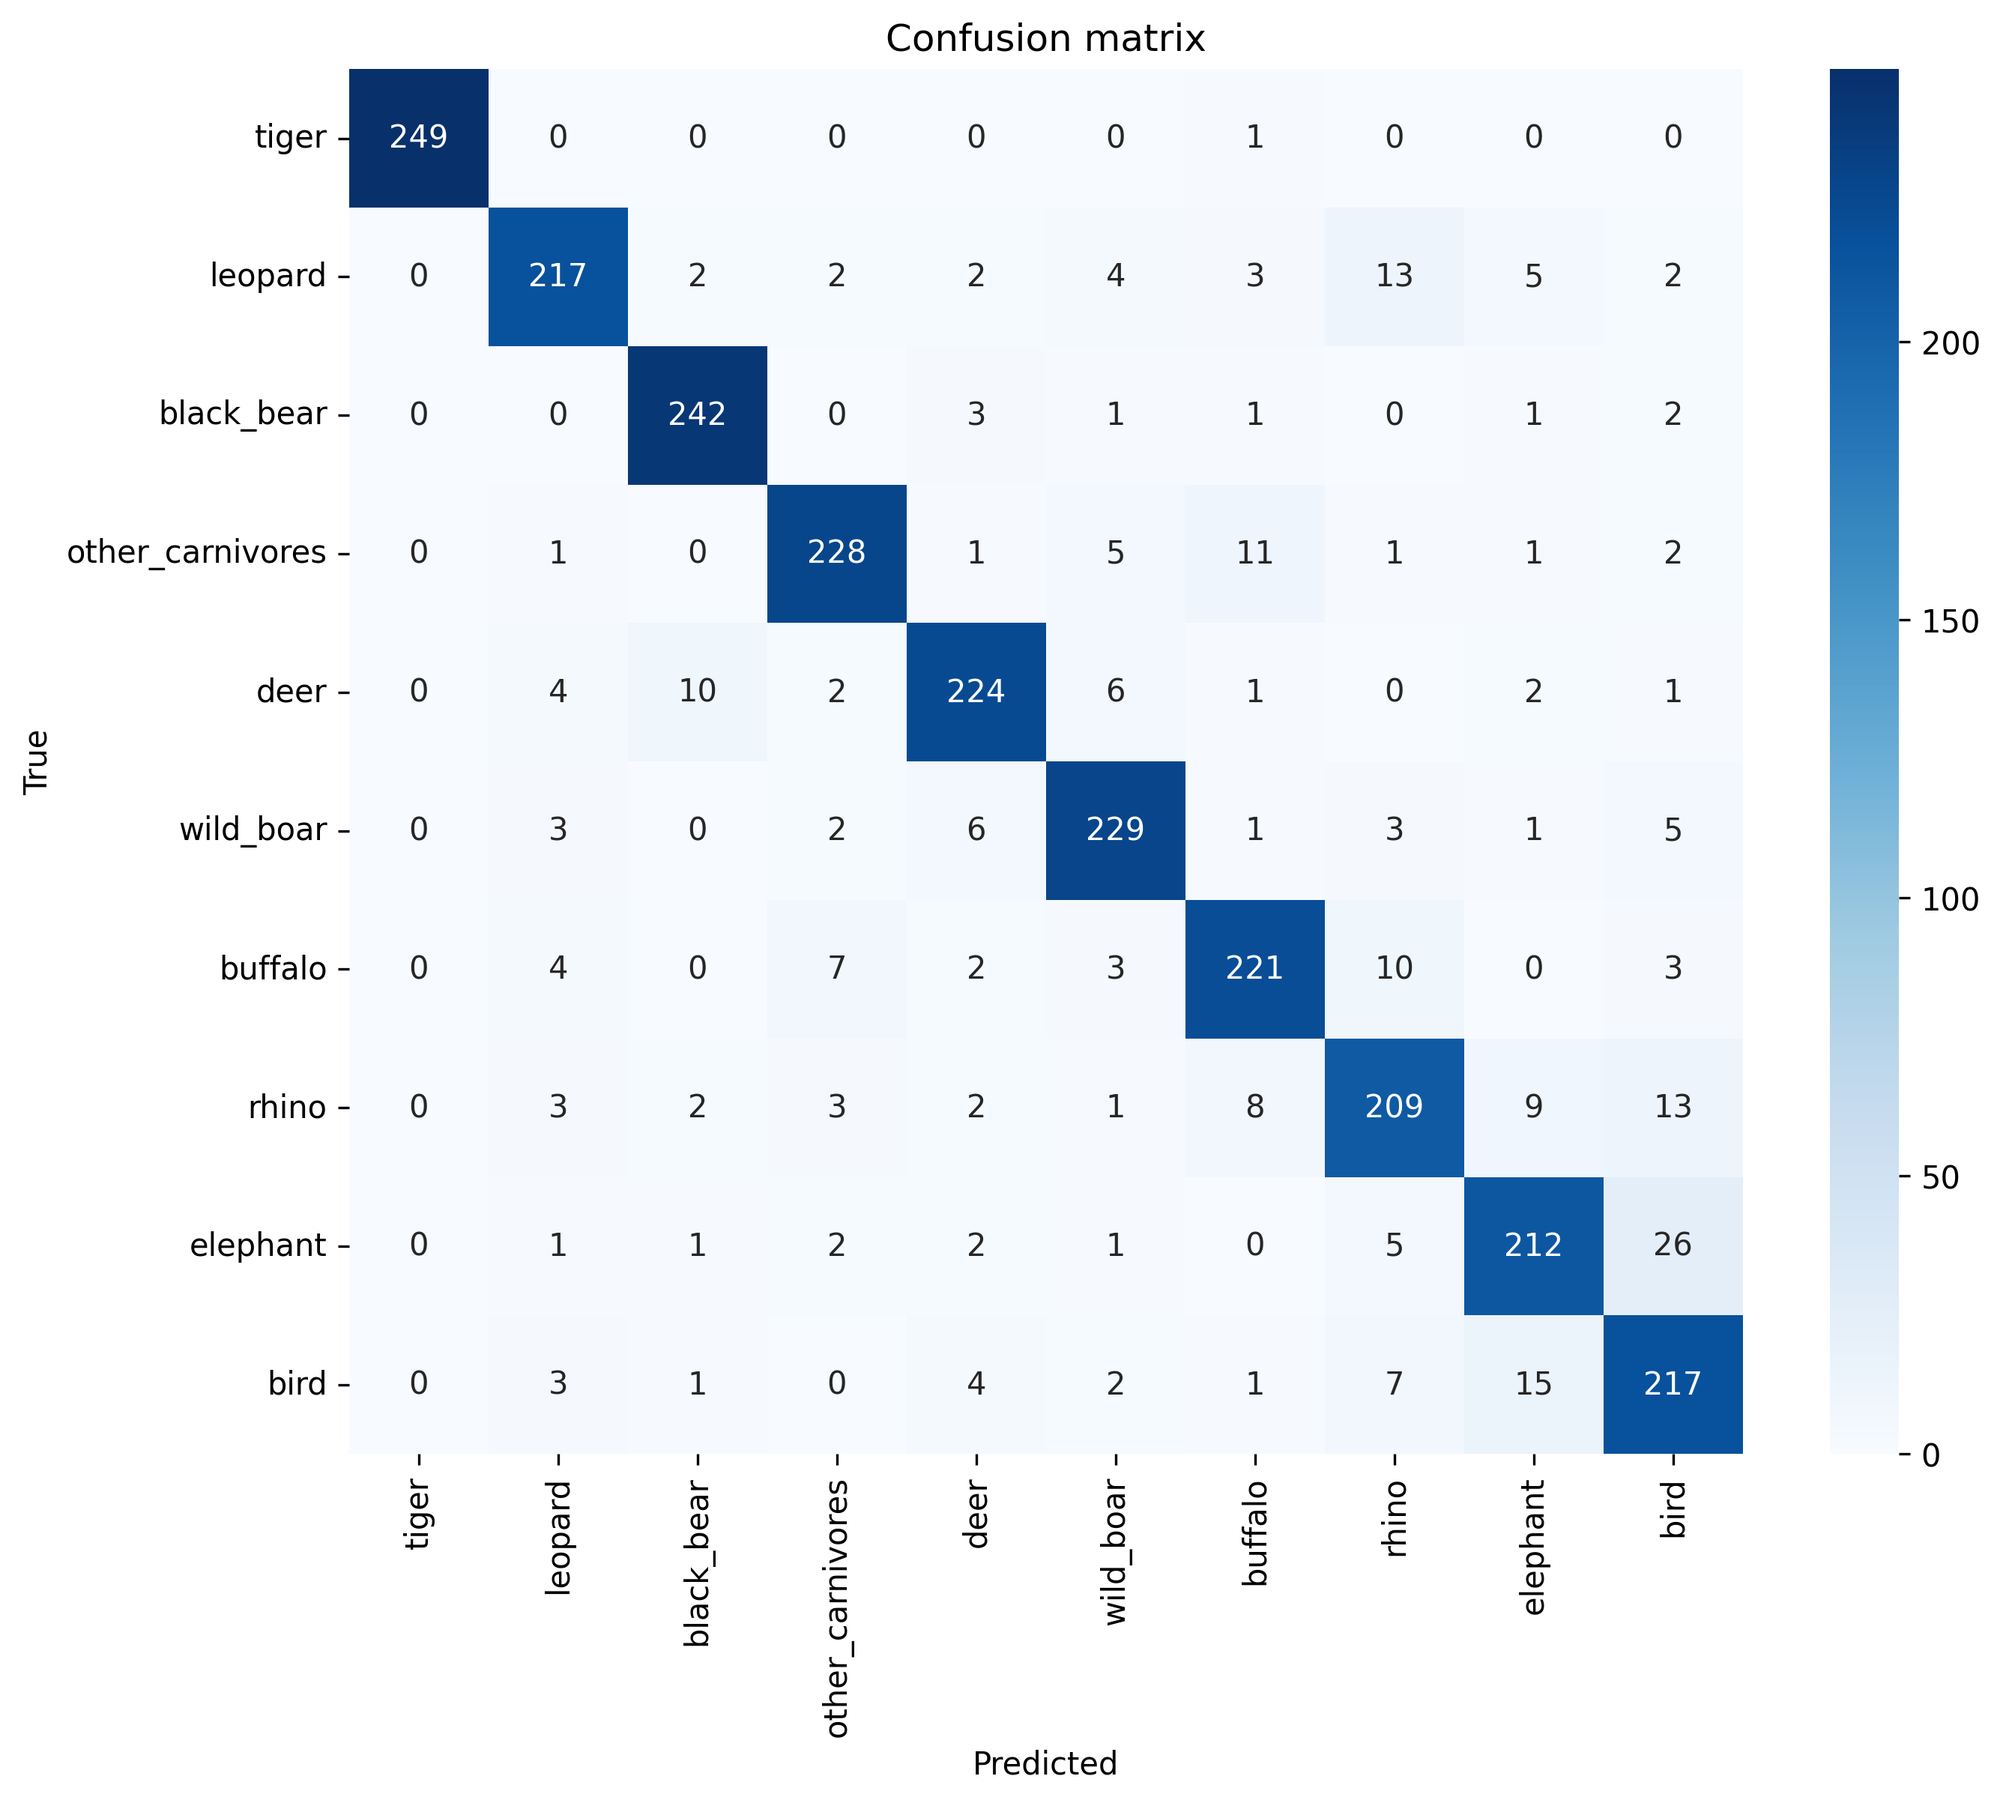
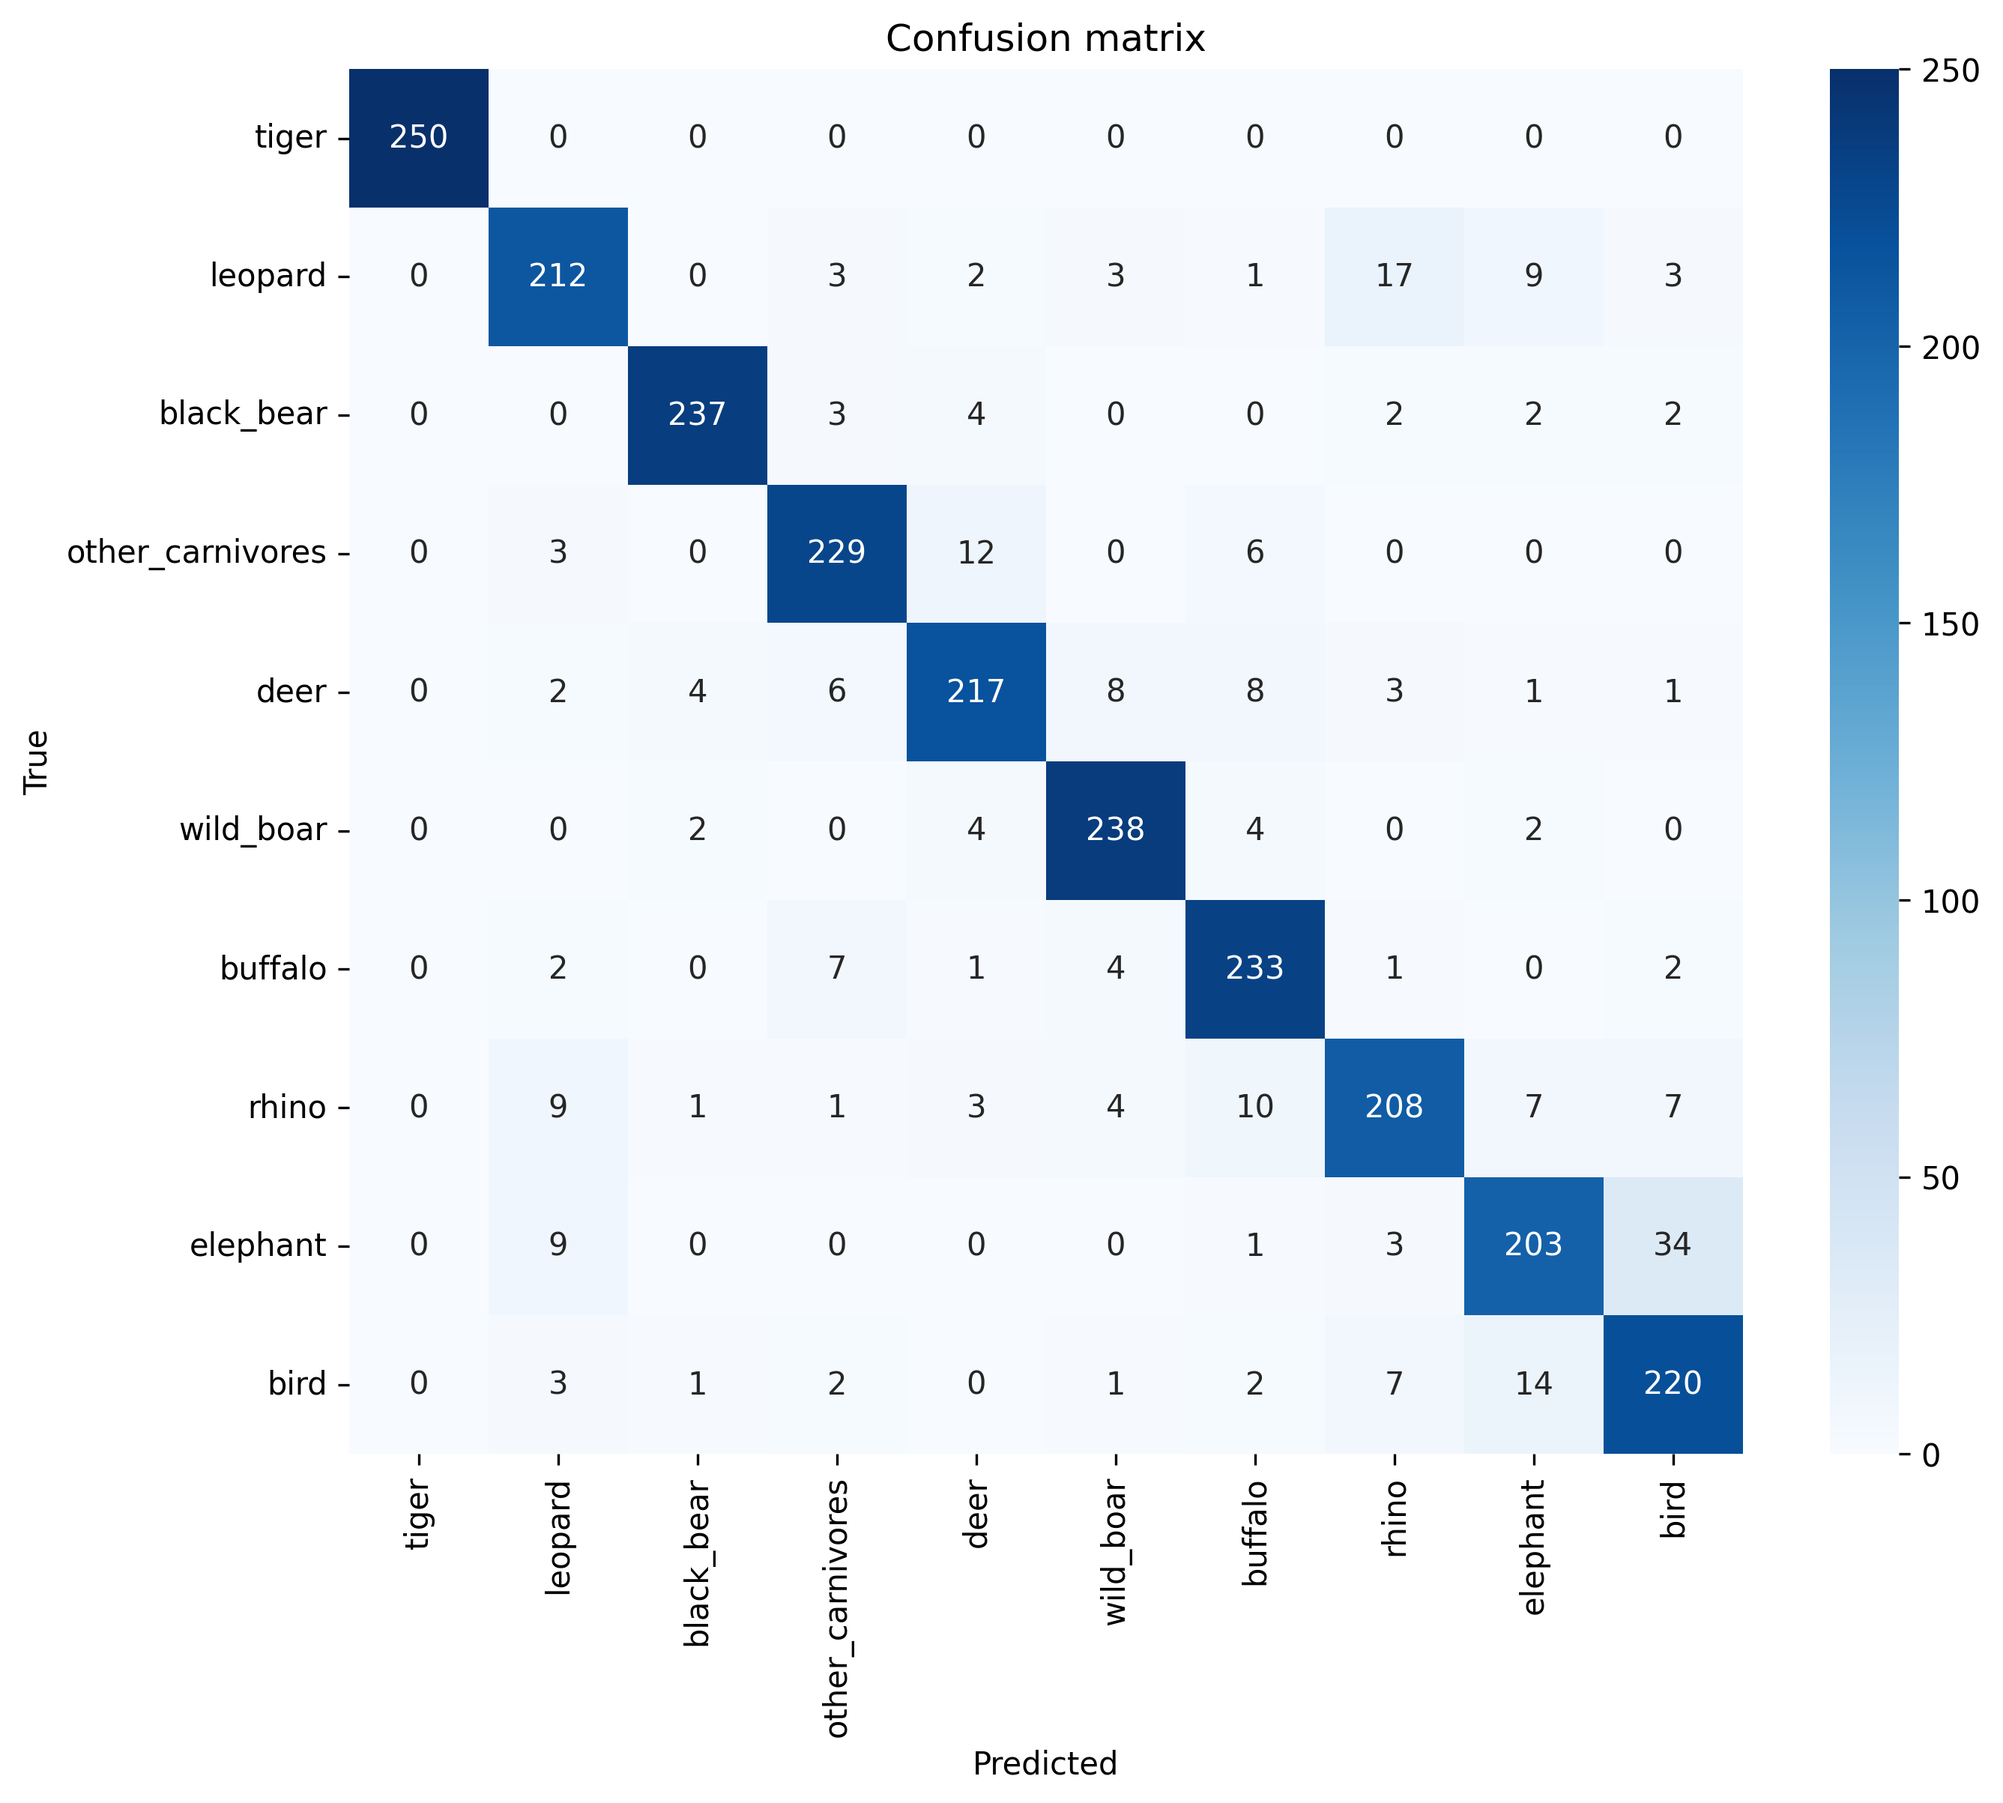
Update readme and add backlog

diff --git a/README.md b/README.md
@@ -4,6 +4,10 @@ This repository contains scripts and notebooks to build a species classification
 It can classify 10 different classes (including tigers) in camera trap images, using ML ([MegaDetector](https://github.com/agentmorris/MegaDetector) and EfficientNetV2M),
 open data ([LILA BC](https://lila.science/)), open source tools ([MEWC](https://github.com/zaandahl/mewc)) and free compute resources (Google Colab and Kaggle).
 
+TeraiNet is supposed to be an open source blueprint to enable others to easily and flexibly build their own species classifiers for their own specific use cases.
+All you need is basically a Google and a Kaggle account, and an Internet connection.
+In a nutshell, you select the species you're interested in and run the rest of the pipeline with some (hopefully) minor tweaks here and there.
+
 ![tiger](media/anno_1440.jpg 'tiger')
 
 *Credentials: LILA BC, MegaDetector, own illustration.*
@@ -11,8 +15,8 @@ open data ([LILA BC](https://lila.science/)), open source tools ([MEWC](https://
 
 ## Motivation and relevance
 
-- tigers are an endangered species, NGOs like the [Nepal Tiger Trust](https://www.nepaltigertrust.org/) protect them
-- there is no open and easy way for ecologists/researchers/NGOs to classify their camera trap images with regard to tigers
+- tigers are an endangered species, NGOs like the [Nepal Tiger Trust](https://www.nepaltigertrust.org/) and [WWF Nepal](https://www.wwfnepal.org) protect them
+- there is no open and easy way for ecologists/NGOs to classify their camera trap images with regard to tigers
 - ML and open data/tools can help reduce the amount of manual labor when sifting through large amounts of camera trap images, looking for the needle in the haystack
 - there appears to be no such species classification model focussed on the Terai region in Nepal yet
 - **goal**: train a species classifier focussing on the most relevant species in the Bengal tiger's ecosystem in Nepal, namely the Terai region,
@@ -78,37 +82,37 @@ and make it openly available through [AddaxAI](https://addaxdatascience.com/adda
 3. Log experiments using [Weights & Biases](https://wandb.ai/alexvmt/TeraiNet/overview)
 
 I selected a pre-trained EfficientNetV2M with 54M parameters because it constitutes a good compromise between predictive performance, training time and model size.
-The model has been trained for 50 epochs (early stopping after 31 epochs) with 2000 images per class (250 images per class in the validation set).
+The model has been trained for 50 epochs (early stopping after 43 epochs) with 2,000 images per class (250 images per class in the validation set).
 The model has been evaluated on a test set with 250 images per class.
 
 ### Test set performance overview
 
 - Accuracy: 0.899
-- Precision: 0.900
+- Precision: 0.899
 - Recall: 0.899
 - F1: 0.899
 
 ### Test set performance per class
 
-|                |precision         |recall            |f1-score          |support|
-|----------------|------------------|------------------|------------------|-------|
-|tiger           |1.000             |0.996             |0.998             |250    |
-|leopard         |0.919             |0.868             |0.893             |250    |
-|black_bear      |0.938             |0.968             |0.953             |250    |
-|other_carnivores|0.927             |0.912             |0.919             |250    |
-|deer            |0.911             |0.896             |0.903             |250    |
-|wild_boar       |0.909             |0.916             |0.912             |250    |
-|buffalo         |0.891             |0.884             |0.888             |250    |
-|rhino           |0.843             |0.836             |0.839             |250    |
-|elephant        |0.862             |0.848             |0.855             |250    |
-|bird            |0.801             |0.868             |0.833             |250    |
-|accuracy        |0.899             |0.899             |0.899             |2500   |
-|macro avg       |0.900             |0.899             |0.899             |2500   |
-|weighted avg    |0.900             |0.8992            |0.899             |2500   |
+| Class            | Precision | Recall | F1-Score | Support |
+|------------------|-----------|--------|----------|---------|
+| tiger            | 1.000     | 1.000  | 1.000    | 250     |
+| leopard          | 0.883     | 0.848  | 0.865    | 250     |
+| black_bear       | 0.967     | 0.948  | 0.958    | 250     |
+| other_carnivores | 0.912     | 0.916  | 0.914    | 250     |
+| deer             | 0.893     | 0.868  | 0.880    | 250     |
+| wild_boar        | 0.922     | 0.952  | 0.937    | 250     |
+| buffalo          | 0.879     | 0.932  | 0.905    | 250     |
+| rhino            | 0.863     | 0.832  | 0.847    | 250     |
+| elephant         | 0.853     | 0.812  | 0.832    | 250     |
+| bird             | 0.818     | 0.880  | 0.848    | 250     |
+| **micro avg**    | 0.899     | 0.899  | 0.899    | 2500    |
+| **macro avg**    | 0.899     | 0.899  | 0.899    | 2500    |
+| **weighted avg** | 0.899     | 0.899  | 0.899    | 2500    |
 
 Test set performance for the tiger class is extremely high because the respective images are unrealistically good.
-The performance on the tiger images in `test2` is more realistic (`test2` accuracy: 0.868).
-Most other classes have metrics of ~0.9+. But performance on some classes, including rhino, elephant and bird is somewhat lower.
+The performance on the tiger images in `test2` is more realistic (`test2` accuracy: 0.872).
+Most other classes have metrics of about 0.87-0.96. But performance on some classes, including rhino, elephant and bird is somewhat lower.
 I believe that the quality of the rhino and elephant images is not ideal, e. g. there seem to be mix-ups or even other species included (e. g. zebra).
 Birds tend to be difficult to classify correctly in general.
 
@@ -116,7 +120,8 @@ Birds tend to be difficult to classify correctly in general.
 
 ![confusion_matrix](media/confusion_matrix.png 'confusion_matrix')
 
-There appears to be some confusion between leopard and rhino, other carnivores and buffalo, deer and black bear, buffalo and rhino, rhino and bird, and elephant and bird.
+There appears to be some confusion between leopard and rhino, other carnivores and deer, rhino and buffalo, rhino and bird, and elephant and bird.
+I believe that there are several instances in the present data where there are birds sitting on elephants, which obviously leads to erronous annotations.
 
 *Note: There are only ~300 tiger images on LILA BC. I didn't use them in training and validation but instead put all of them in `test2`
 to examine how the model would potentially generalize to tiger camera trap images from another source than the tiger training images
@@ -125,8 +130,18 @@ to examine how the model would potentially generalize to tiger camera trap image
 ## Deployment
 
 1. Publish model on [HuggingFace](https://huggingface.co/alexvmt/TeraiNet/tree/main)
-2. Integrate and use model in [AddaxAI](https://addaxdatascience.com/addaxai/) (formerly known as EcoAssist)
+2. Deploy model to [AddaxAI](https://addaxdatascience.com/addaxai/)
 
 Join [AI for Conservation Slack](https://beerys.github.io/#slack) and [WILDLABS](https://wildlabs.net/) if you're interested in using technology for conservation.
 
 Feel free to reach out if you have feedback/ideas for new use cases or would like to contribute/collaborate!
+
+## Backlog
+
+- experiment with larger image size (e. g. 384x384 pixels)
+- experiment with more complex model head (e. g. like MEWC)
+- try mixup augmentations
+- use uv, ruff etc. with makefile
+- add unit tests
+- check null values in common_name
+- automatically push/load model to/from HuggingFace
